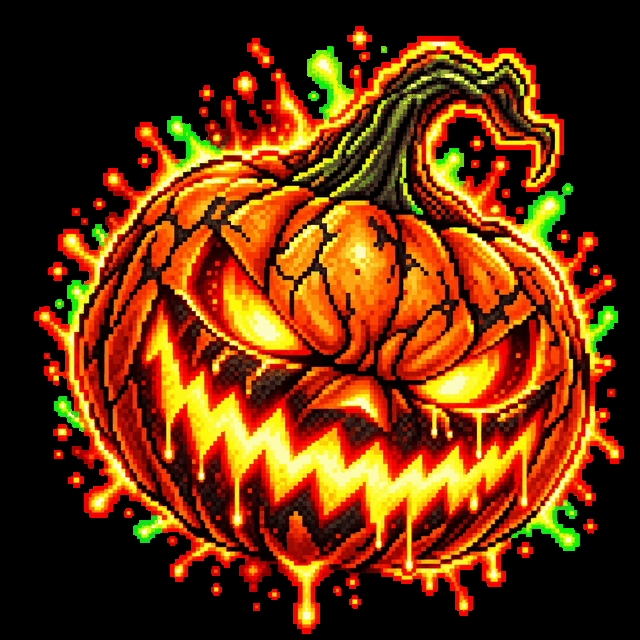
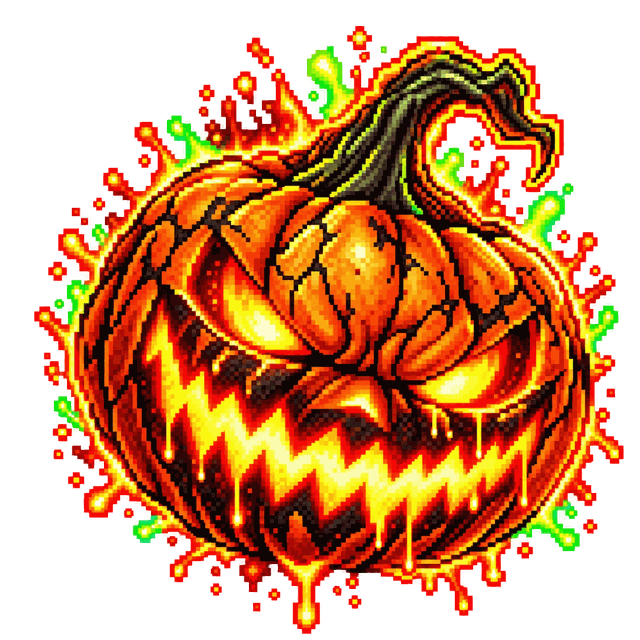
feat(mobile): los zombis en el mapa, en el resumen y explicados en Retos
El zombi se dibuja por TIPO, no por los puntos (los puntos los decide el
panel al sembrar y podrían cambiar). Al pisarlo, el cartel sale en rojo y
dice "¡ZOMBI! -500" en vez del naranja de celebración: el color tiene que
decir lo mismo que el número.

En el resumen va en su propia línea y en rojo. Sumado a las calabazas
habría salido "Calabazas (2) -300", que no lo entiende nadie.

Y en Retos, un bloque con el dibujo y dos reglas, que era lo que pidió
Iban: resta 500, y no se coge cerrando el círculo. Más la coletilla que
quita el miedo: una carrera nunca te deja por debajo de cero.

Dos cosas que costaron encontrar y quedan apuntadas en el §9: reducir la
paleta de un PNG con MEDIANCUT le quita la transparencia (y el fallo no
se ve si lo compruebas sobre fondo negro), y Gradle se guarda una copia
de los dibujos que NO refresca al cambiarlos — el APK salía con los
viejos.

diff --git a/apps/mobile/src/screens/MapScreen.tsx b/apps/mobile/src/screens/MapScreen.tsx
@@ -96,6 +96,11 @@ const RELLENO_TERRITORIO = '80';   // 50%, por donde se ve el mapa
 const BORDE_TERRITORIO = 'B3';     // 70%, marca el límite sin cerrarlo
 
 const CALABAZA = require('../../assets/calabaza.png');
+const ZOMBI = require('../../assets/zombi.png');
+/** El dibujo de cada objeto del mapa. Se elige por el TIPO, no por los puntos:
+ *  los puntos los decide el panel al sembrar y podrían cambiar. */
+const DIBUJO: Record<string, any> = { calabaza: CALABAZA, zombi: ZOMBI };
+const dibujoDe = (tipo: string) => DIBUJO[tipo] ?? CALABAZA;
 
 const ExpoKeepAwake = NativeModules.ExpoKeepAwake;
 const activateScreenAwake = async () => {
@@ -602,14 +607,19 @@ function polygonArea(coords: Coord[]): number {
 
 /** Una fila del desglose de puntos del resumen post-carrera. `highlight` pinta
  *  el valor en naranja (para multiplicadores, que son lo "premium"). */
-function BreakdownRow({ label, value, hint, highlight }: { label: string; value: string; hint?: string; highlight?: boolean }) {
+function BreakdownRow({ label, value, hint, highlight, malo }:
+  { label: string; value: string; hint?: string; highlight?: boolean; malo?: boolean }) {
   return (
     <View style={styles.breakdownRow}>
       <View style={{ flex: 1 }}>
         <Text style={styles.breakdownLabel}>{label}</Text>
         {hint ? <Text style={styles.breakdownHint}>{hint}</Text> : null}
       </View>
-      <Text style={[styles.breakdownValue, highlight && styles.breakdownValueHi]}>{value}</Text>
+      {/* `malo` pinta la cifra en rojo. Lo que resta no puede salir del mismo
+          color que lo que suma. */}
+      <Text style={[styles.breakdownValue, highlight && styles.breakdownValueHi, malo && styles.breakdownValueMalo]}>
+        {value}
+      </Text>
     </View>
   );
 }
@@ -650,6 +660,8 @@ export default function MapScreen({ user, onNavigateToShop }: Props) {
       loopBonus: number; streakMultiplier: number; pbMultiplier: number;
       streakDays: number; beatPB: boolean; dobleBienvenida?: boolean;
       objetos?: number; puntosObjetos?: number;
+      calabazas?: number; puntosCalabazas?: number;
+      zombis?: number; puntosZombis?: number;
       cercadas?: number; puntosCerco?: number;
       tope?: number; topeAplicado?: boolean; puntosBrutos?: number;
     } | null;
@@ -2469,12 +2481,23 @@ export default function MapScreen({ user, onNavigateToShop }: Props) {
                   {/* Las calabazas van LAS ÚLTIMAS y después del tope, porque
                       se suman por fuera: 200 son 200 aunque la carrera se haya
                       topado. Puestas antes, la cuenta no salía. */}
-                  {(runSummary.breakdown.objetos ?? 0) > 0 && (
+                  {(runSummary.breakdown.calabazas ?? runSummary.breakdown.objetos ?? 0) > 0 && (
                     <BreakdownRow
-                      label={`Calabazas (${runSummary.breakdown.objetos})`}
-                      value={`+${runSummary.breakdown.puntosObjetos ?? 0}`}
+                      label={`Calabazas (${runSummary.breakdown.calabazas ?? runSummary.breakdown.objetos})`}
+                      value={`+${runSummary.breakdown.puntosCalabazas ?? runSummary.breakdown.puntosObjetos ?? 0}`}
                       hint={runSummary.breakdown.topeAplicado ? 'por el camino · aparte del tope' : 'por el camino'}
                       highlight
+                    />
+                  )}
+                  {/* Los zombis van en su propia línea y en rojo. Sumados a las
+                      calabazas darían un "Calabazas (2) -300" que no hay quien
+                      entienda. */}
+                  {(runSummary.breakdown.zombis ?? 0) > 0 && (
+                    <BreakdownRow
+                      label={`Zombis (${runSummary.breakdown.zombis})`}
+                      value={`${runSummary.breakdown.puntosZombis}`}
+                      hint="los has pisado"
+                      malo
                     />
                   )}
                 </View>
@@ -2805,7 +2828,7 @@ export default function MapScreen({ user, onNavigateToShop }: Props) {
               anchor={{ x: 0.5, y: 0.5 }}
               tracksViewChanges={objetosEnDirecto}
             >
-              <Image source={CALABAZA} style={styles.objeto} resizeMode="contain" />
+              <Image source={dibujoDe(o.tipo)} style={styles.objeto} resizeMode="contain" />
             </Marker>
           ))}
 
@@ -2858,9 +2881,13 @@ export default function MapScreen({ user, onNavigateToShop }: Props) {
         {/* Has pisado una calabaza. Sale aquí y en la pantalla de carrera,
             que es donde está mirando quien corre. */}
         {objetoCogido && (
-          <View style={styles.cogido} pointerEvents="none">
-            <Image source={CALABAZA} style={styles.objeto} resizeMode="contain" />
-            <Text style={styles.cogidoTexto}>¡CALABAZA! +{objetoCogido.puntos}</Text>
+          <View style={[styles.cogido, objetoCogido.puntos < 0 && styles.pisadoMalo]} pointerEvents="none">
+            <Image source={dibujoDe(objetoCogido.tipo)} style={styles.objeto} resizeMode="contain" />
+            <Text style={styles.cogidoTexto}>
+              {objetoCogido.puntos < 0
+                ? `¡ZOMBI! ${objetoCogido.puntos}`
+                : `¡CALABAZA! +${objetoCogido.puntos}`}
+            </Text>
           </View>
         )}
 
@@ -2963,9 +2990,13 @@ export default function MapScreen({ user, onNavigateToShop }: Props) {
               desaparecer descolocaría el tiempo, la distancia y la frase. */}
           <View style={styles.avisoSlot} pointerEvents="none">
             {objetoCogido && (
-              <View style={styles.cogidoRun}>
-                <Image source={CALABAZA} style={styles.objeto} resizeMode="contain" />
-                <Text style={styles.cogidoTexto}>¡CALABAZA! +{objetoCogido.puntos}</Text>
+              <View style={[styles.cogidoRun, objetoCogido.puntos < 0 && styles.pisadoMalo]}>
+                <Image source={dibujoDe(objetoCogido.tipo)} style={styles.objeto} resizeMode="contain" />
+                <Text style={styles.cogidoTexto}>
+                  {objetoCogido.puntos < 0
+                    ? `¡ZOMBI! ${objetoCogido.puntos}`
+                    : `¡CALABAZA! +${objetoCogido.puntos}`}
+                </Text>
               </View>
             )}
             {gpsWeak && (
@@ -3634,6 +3665,10 @@ const styles = StyleSheet.create({
   // La calabaza del mapa. Es un emoji y no una imagen: no pesa, se ve igual en
   // Android y en iPhone, y no hay que mantener otro archivo.
   objeto: { width: 38, height: 38 },
+  // El cartel de "has pisado algo" es naranja de celebración. Si lo pisado
+  // resta, en rojo: el color tiene que decir lo mismo que el número.
+  pisadoMalo: { backgroundColor: colors.danger },
+  breakdownValueMalo: { color: colors.danger },
   cogido: {
     position: 'absolute', left: spacing.md, right: spacing.md, top: 96,
     backgroundColor: colors.orange, borderRadius: radius.lg,

diff --git a/apps/mobile/src/screens/RetosScreen.tsx b/apps/mobile/src/screens/RetosScreen.tsx
@@ -25,6 +25,7 @@ import { api, RankingObjeto } from '../services/api';
 
 const { width: SCREEN_W, height: SCREEN_H } = Dimensions.get('window');
 const CALABAZA = require('../../assets/calabaza.png');
+const ZOMBI = require('../../assets/zombi.png');
 
 export default function RetosScreen() {
   const [cargando, setCargando] = useState(true);
@@ -95,8 +96,27 @@ export default function RetosScreen() {
           </View>
           <Text style={styles.parrafo}>
             Sal a correr y píllalas. <Text style={styles.resalte}>200 puntos</Text> cada una, y cada
-            una te abre un mensaje nuevo para picar a tus rivales.
+            una te abre un mensaje nuevo para picar a tus rivales. Las que queden{' '}
+            <Text style={styles.resalte}>dentro de un círculo que cierres</Text> también son tuyas.
           </Text>
+
+          {/* El zombi, con su dibujo al lado. Dos reglas y se acabó: resta, y
+              no se coge cerrando el círculo. Puesto aquí, debajo de lo bueno,
+              para que se lea como "y ojo, que además hay esto". */}
+          <View style={styles.aviso}>
+            <Image source={ZOMBI} style={styles.zombi} resizeMode="contain" />
+            <View style={{ flex: 1 }}>
+              <Text style={styles.avisoTitulo}>Y CUIDADO CON LOS ZOMBIS</Text>
+              <Text style={styles.avisoTexto}>
+                Hay muchos menos. Si pisas uno, <Text style={styles.malo}>pierdes 500 puntos</Text>.
+                Y a estos <Text style={styles.malo}>no</Text> te los llevas cerrando el círculo: al
+                zombi hay que esquivarlo.
+              </Text>
+              <Text style={styles.avisoTexto}>
+                Tranquilo: una carrera nunca te deja por debajo de cero.
+              </Text>
+            </View>
+          </View>
 
           {ranking.length > 0 && (
             <View style={styles.tabla}>
@@ -124,6 +144,19 @@ export default function RetosScreen() {
             En cuanto alguien se come una, nace otra <Text style={styles.resalte}>en otro sitio</Text>.
             Así que ya puedes ir olvidándote de dar vueltas a la misma manzana.
           </Text>
+          <View style={styles.aviso}>
+            <Image source={ZOMBI} style={styles.zombi} resizeMode="contain" />
+            <View style={{ flex: 1 }}>
+              <Text style={styles.avisoTitulo}>Y HABRÁ ZOMBIS</Text>
+              <Text style={styles.avisoTexto}>
+                Muchos menos que calabazas, pero si pisas uno{' '}
+                <Text style={styles.malo}>pierdes 500 puntos</Text>. Y a estos{' '}
+                <Text style={styles.malo}>no</Text> te los llevas cerrando el círculo: hay que
+                esquivarlos. Eso sí, una carrera nunca te deja por debajo de cero.
+              </Text>
+            </View>
+          </View>
+
           <Text style={styles.parrafo}>
             Cada calabaza que cojas te desbloquea{' '}
             <Text style={styles.resalte}>un mensaje nuevo</Text> para picar a tus rivales. Hay diez,
@@ -151,6 +184,19 @@ const styles = StyleSheet.create({
 
   calabaza: { width: SCREEN_W * 0.5, height: SCREEN_W * 0.5 },
 
+  aviso: {
+    flexDirection: 'row', alignItems: 'center', gap: spacing.sm,
+    backgroundColor: colors.bgCard, borderRadius: radius.lg,
+    borderWidth: 1, borderColor: colors.danger,
+    padding: spacing.md, marginTop: spacing.md, width: '100%',
+  },
+  zombi: { width: 64, height: 64 },
+  avisoTitulo: {
+    color: colors.danger, fontSize: 13, fontWeight: '900',
+    letterSpacing: 1, marginBottom: 4,
+  },
+  avisoTexto: { color: colors.textSecondary, fontSize: 14, lineHeight: 20, marginTop: 2 },
+  malo: { color: colors.danger, fontWeight: '700' },
   fechas: {
     color: colors.orange, fontSize: 12, fontWeight: '800',
     letterSpacing: 2, marginTop: spacing.sm,

diff --git a/CLAUDE.md b/CLAUDE.md
@@ -376,6 +376,8 @@ verdad, compilar en **Release** (lleva el código dentro y no necesita nada):
 
 ## 9. Bugs históricos (no re-introducir)
 
+- **Cambiar un dibujo y que la build se lleve el viejo** (4-oct-2026): se sustituyeron `calabaza.png` y `zombi.png` y el APK seguía trayendo los anteriores. Gradle guarda una copia en `android/app/build/generated/res/createBundleReleaseJsAndAssets/` y **no la refresca aunque el fichero de `assets/` haya cambiado**; borrar `generated/res/react` o `merged_res` no sirve, es esa carpeta. Se vio porque los dibujos salían con un recuadro negro en la app teniendo el PNG transparente. **Al tocar cualquier imagen de `assets/`: `rm -rf android/app/build/generated/res/createBundleReleaseJsAndAssets android/app/build/intermediates/packaged_res` antes de montar, y comprobar el dibujo DENTRO del AAB** (descomprimirlo y mirarlo), no solo el fichero de origen.
+- **Reducir la paleta de un PNG le quitó la transparencia** (4-oct-2026): al adelgazar los dibujos nuevos con `quantize(method=MEDIANCUT)` el fondo transparente se volvió negro, y en la app salía un recuadro. `FASTOCTREE` sí respeta el canal alfa (y encima dejó los ficheros más pequeños). **Y la comprobación hay que hacerla sobre un color CHILLÓN, no sobre negro**: la primera vez se montó sobre fondo oscuro y el recuadro negro no se veía.
 - **El resumen de carrera no decía de dónde salían los puntos** (hasta la build 23 / vc77): el 4-oct una carrera de 3,46 km dio 8.000 puntos y las líneas del desglose sumaban 1.847. Faltaba la que más pesa: **lo que se queda uno al cerrar un cerco**. El servidor sí lo mandaba (`puntosCerco`, `cercadas`); la app simplemente no lo pintaba, y el tope tampoco se decía. Un total que no cuadra con ninguna línea parece un error nuestro. Arreglado con dos filas nuevas y el orden puesto para que la cuenta se lea de arriba abajo: cerco → multiplicadores → tope → calabazas (que van por fuera). **Al añadir una fuente de puntos nueva, ponerla TAMBIÉN en el desglose** — si no, el número final deja de poder explicarse.
 - **El tope de puntos era plano y premiaba igual la vuelta corta que la paliza** (hasta vc77): 8.000 para todos, y una carrera de 3,4 km los alcanzaba enteros gracias a un cerco. Ahora el tope **se gana corriendo**: 2.000 puntos por km, con techo de 20.000. Las calabazas van **por fuera** (200 son 200 aunque la carrera se tope) y tienen su propio ranking.
 - **Valencia estaba partida en dos ciudades** (hasta el 4-oct-2026): `València` (3 personas) y `Valencia` (1), con rankings de ciudad distintos que no se veían entre ellos. El GPS devuelve "València" y quien lo escribió a mano puso "Valencia". Arreglado con la función `corrr_ciudad` en la base de datos, que compara sin acentos ni mayúsculas; se guarda lo que escribió cada uno, porque quitarle los acentos a un nombre catalán o gallego para enseñarlo sería escribirlo mal. **Toda comparación de ciudad va por esa función**, nunca por `LOWER(city)` a secas.
